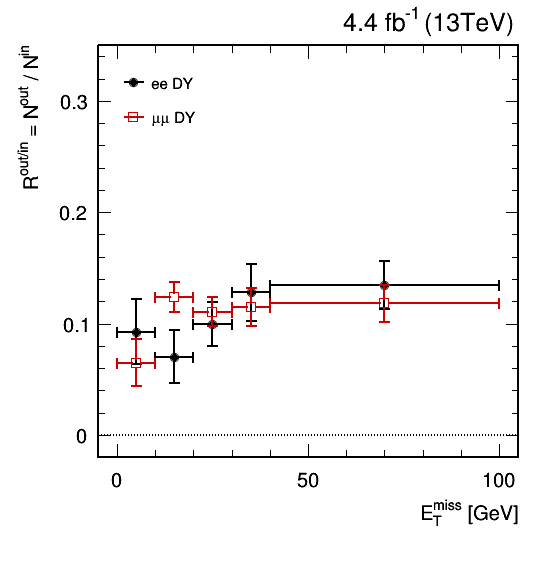
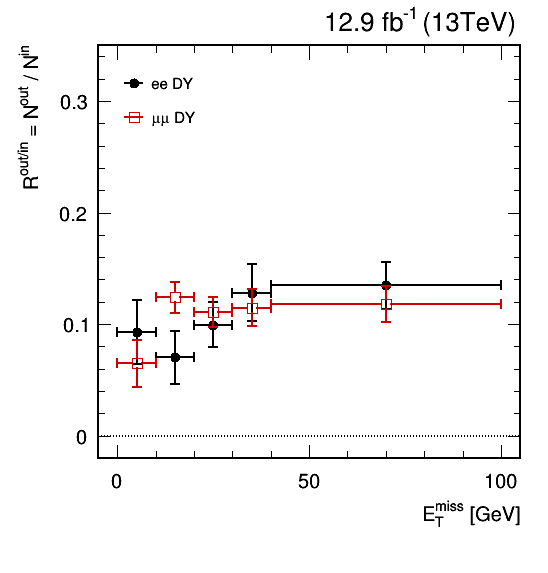
Minor changes

diff --git a/datadriven/getDYScale.C b/datadriven/getDYScale.C
@@ -118,7 +118,7 @@ TString      xtitle;
 void getDYScale(TString analysis = "Control",
 		TString level    = "02_Routin/2jet",
 		TString variable = "metPfType1",
-		double  lumi_fb  = 4.4)
+		double  lumi_fb  = 12.9)
 {
   xtitle = "";
 
@@ -350,6 +350,8 @@ void getDYScale(TString analysis = "Control",
   mgraph[3]->GetYaxis()->SetTitleOffset(2.0);
   mgraph[3]->GetXaxis()->SetTitle(xtitle);
   mgraph[3]->GetYaxis()->SetTitle("scale factor = N^{in}_{est} / N^{in}_{DY}");
+
+  mgraph[3]->SetMaximum(1.15);
 
   DrawLegend(0.74, 0.83, (TObject*)graph_scale[ee], " " + lchannel[ee]);
   DrawLegend(0.74, 0.77, (TObject*)graph_scale[mm], " " + lchannel[mm]);
